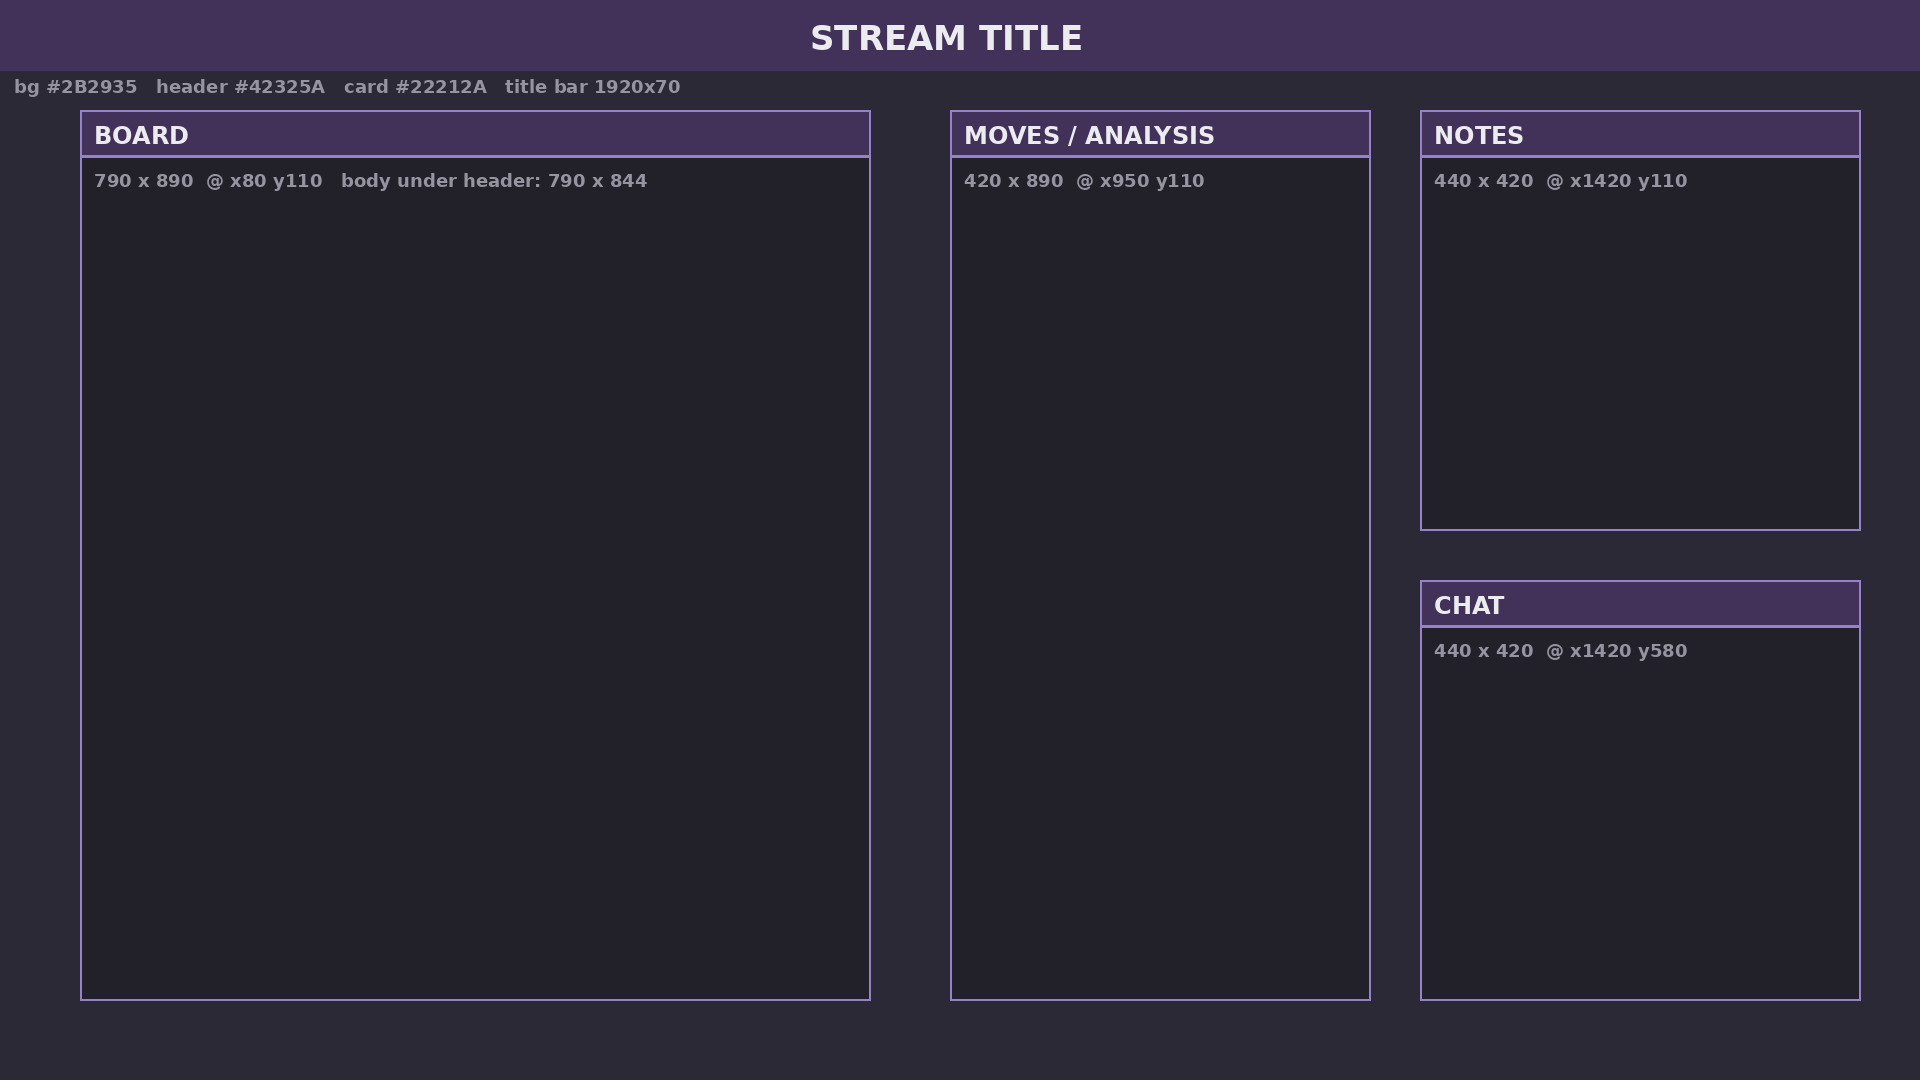
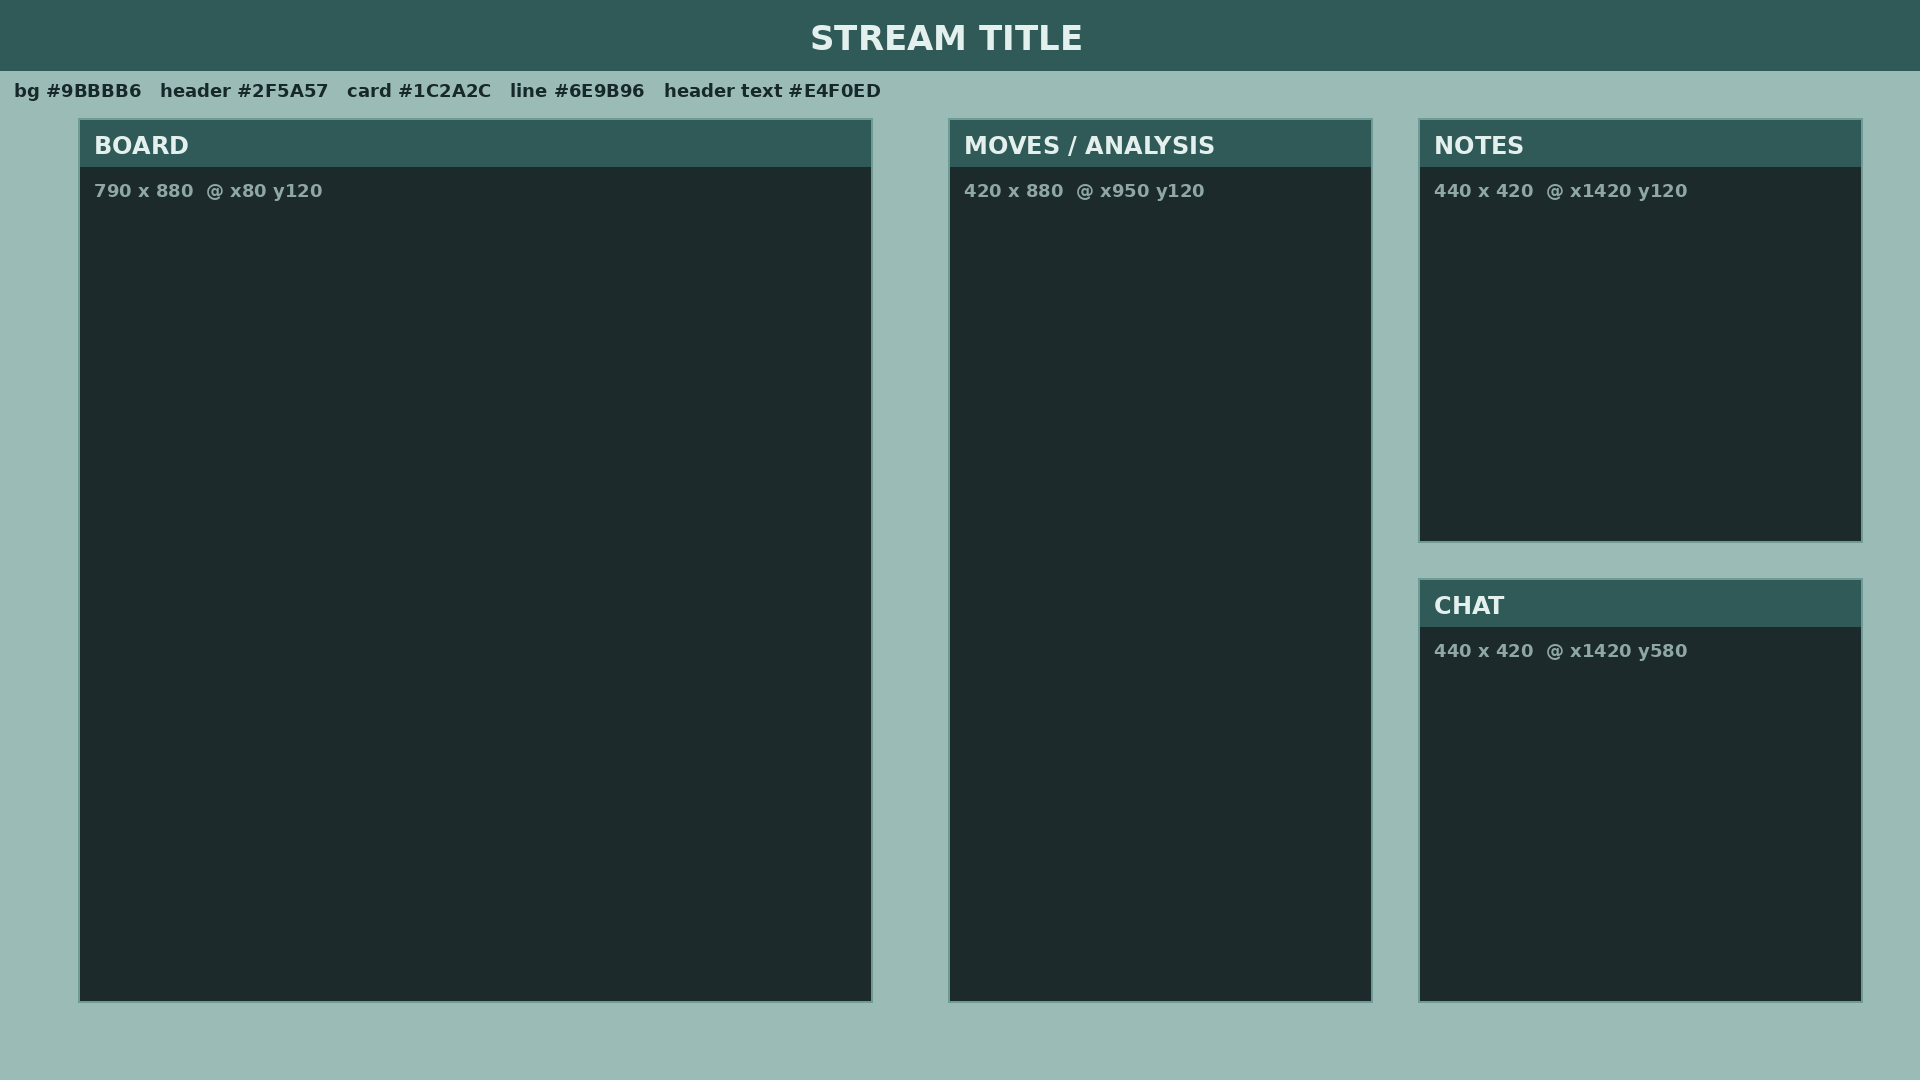
팔레트를 밝은 청록으로 바꾸고 그룹 사용법 추가
배경 9BBBB6 에 어두운 카드를 얹는 구성으로 색을 다시 잡았다. 배경과
카드가 같은 계열이라 통일감이 있으면서 명도 차이로 경계가 뚜렷하다.
밝은 배경이라 배경 위 글자는 어두운 색을 쓰라는 주의도 적었다.

소스를 그룹으로 묶는 방법과, 그룹 크기 조절이 내부 소스에 함께
적용된다는 주의점을 넣었다.

Claude-Session: https://claude.ai/code/session_012kgczb1ZBpXJGFvjTzaQLv

diff --git a/obs-panel-layout.md b/obs-panel-layout.md
@@ -9,10 +9,18 @@
 
 | 쓰임 | 값 |
 | --- | --- |
-| 배경 | `2B2935` |
-| 제목 바 / 카드 헤더 | `42325A` |
-| 카드 본문 | `22212A` |
-| 테두리 | `9682C8` |
+| 배경 | `9BBBB6` |
+| 제목 바 / 카드 헤더 | `2F5A57` |
+| 카드 본문 | `1C2A2C` |
+| 테두리 | `6E9B96` |
+| 헤더 글자 | `E4F0ED` |
+| 배경 위 글자 | `16282A` |
+
+밝은 청록 배경 위에 어두운 카드를 얹는 구성입니다.
+배경과 카드가 같은 계열이라 통일감이 있으면서, 명도 차이가 커서 경계는 뚜렷합니다.
+**배경이 밝으므로 배경 위에 얹는 글자는 어두운 색(`16282A`)을 쓰세요.** 흰 글자는 보이지 않습니다.
+
+강조색이 필요하면(알림, 버튼 등) `D4813F` 주황이 잘 맞습니다. 청록의 보색이라 한 군데만 써도 살아납니다.
 
 ## 자리표 (1920 × 1080)
 
@@ -48,8 +56,24 @@
 테두리를 넣고 싶으면 본문보다 2px 씩 큰 색상 소스(`9682C8`)를 하나 더 깔고
 그 위에 본문을 얹으면 테두리처럼 보입니다.
 
-만든 카드의 소스들을 `Ctrl` 로 함께 선택 → 우클릭 → **선택한 항목 그룹화** 해두면
-나중에 통째로 옮기기 편합니다.
+### 소스 묶기 (그룹)
+
+카드 하나가 소스 서너 개라 금방 목록이 길어집니다. 묶어두면 통째로 다룰 수 있습니다.
+
+1. 소스 목록에서 첫 소스를 클릭하고, **`Ctrl` 을 누른 채** 나머지를 클릭해 여러 개를 고릅니다
+2. 그 위에서 **우클릭 → 선택한 항목 그룹화**
+3. 이름을 정합니다 (`카드-기보`, `카드-메모` 처럼)
+
+그룹 왼쪽의 화살표로 접었다 펼 수 있고, 눈 아이콘 하나로 그룹 전체를 켜고 끕니다.
+설정 → 단축키에서 **그룹의 표시/숨기기**에 키를 걸면 화면 전환도 한 번에 됩니다.
+
+알아둘 점 몇 가지.
+
+- 그룹을 선택하고 `Ctrl+E` 로 크기를 바꾸면 **안에 든 소스가 모두 같이** 커지거나 작아집니다.
+  카드 하나만 조절하려면 그룹을 펼쳐 그 소스를 직접 고르세요.
+- 이미 있는 소스를 그룹에 넣으려면, 그룹을 펼친 상태에서 소스를 **끌어다 그룹 안으로** 놓습니다.
+- 묶은 걸 풀려면 그룹에서 우클릭 → **그룹 해제**. 안의 소스는 그대로 남습니다.
+- 그룹 이름도 소스 목록에 하나의 줄로 잡히므로, 그룹끼리의 앞뒤 순서도 그리는 순서에 영향을 줍니다.
 
 ## 3. 카드 안을 채우기
 
